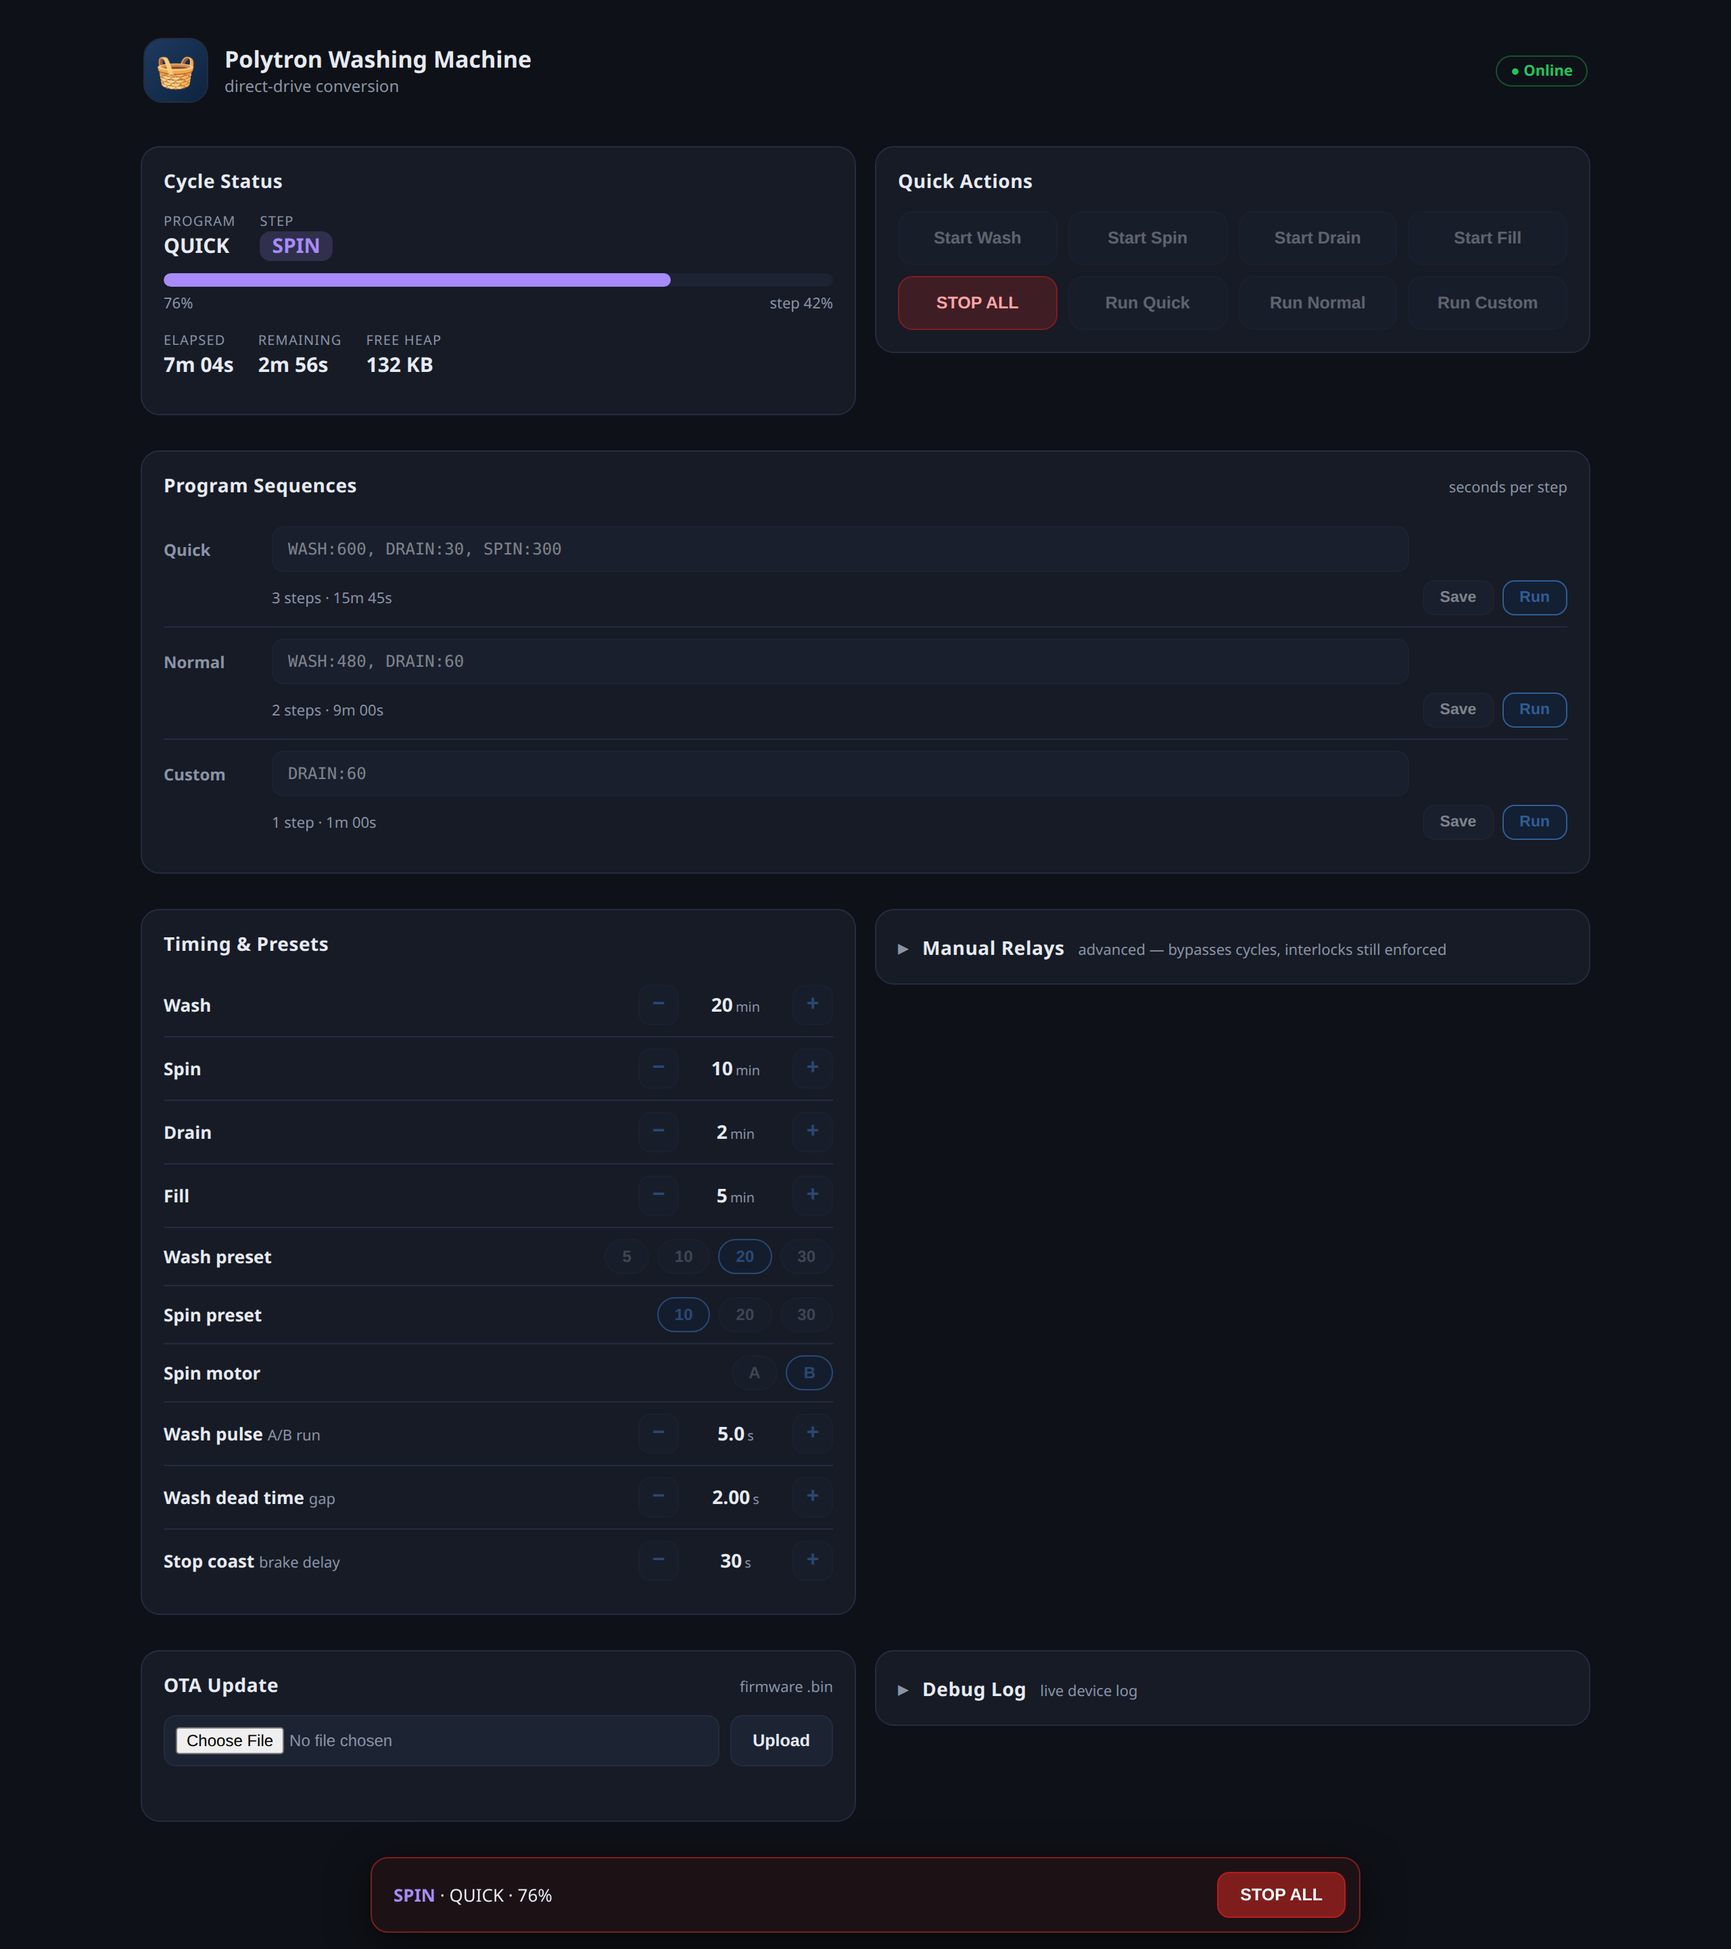
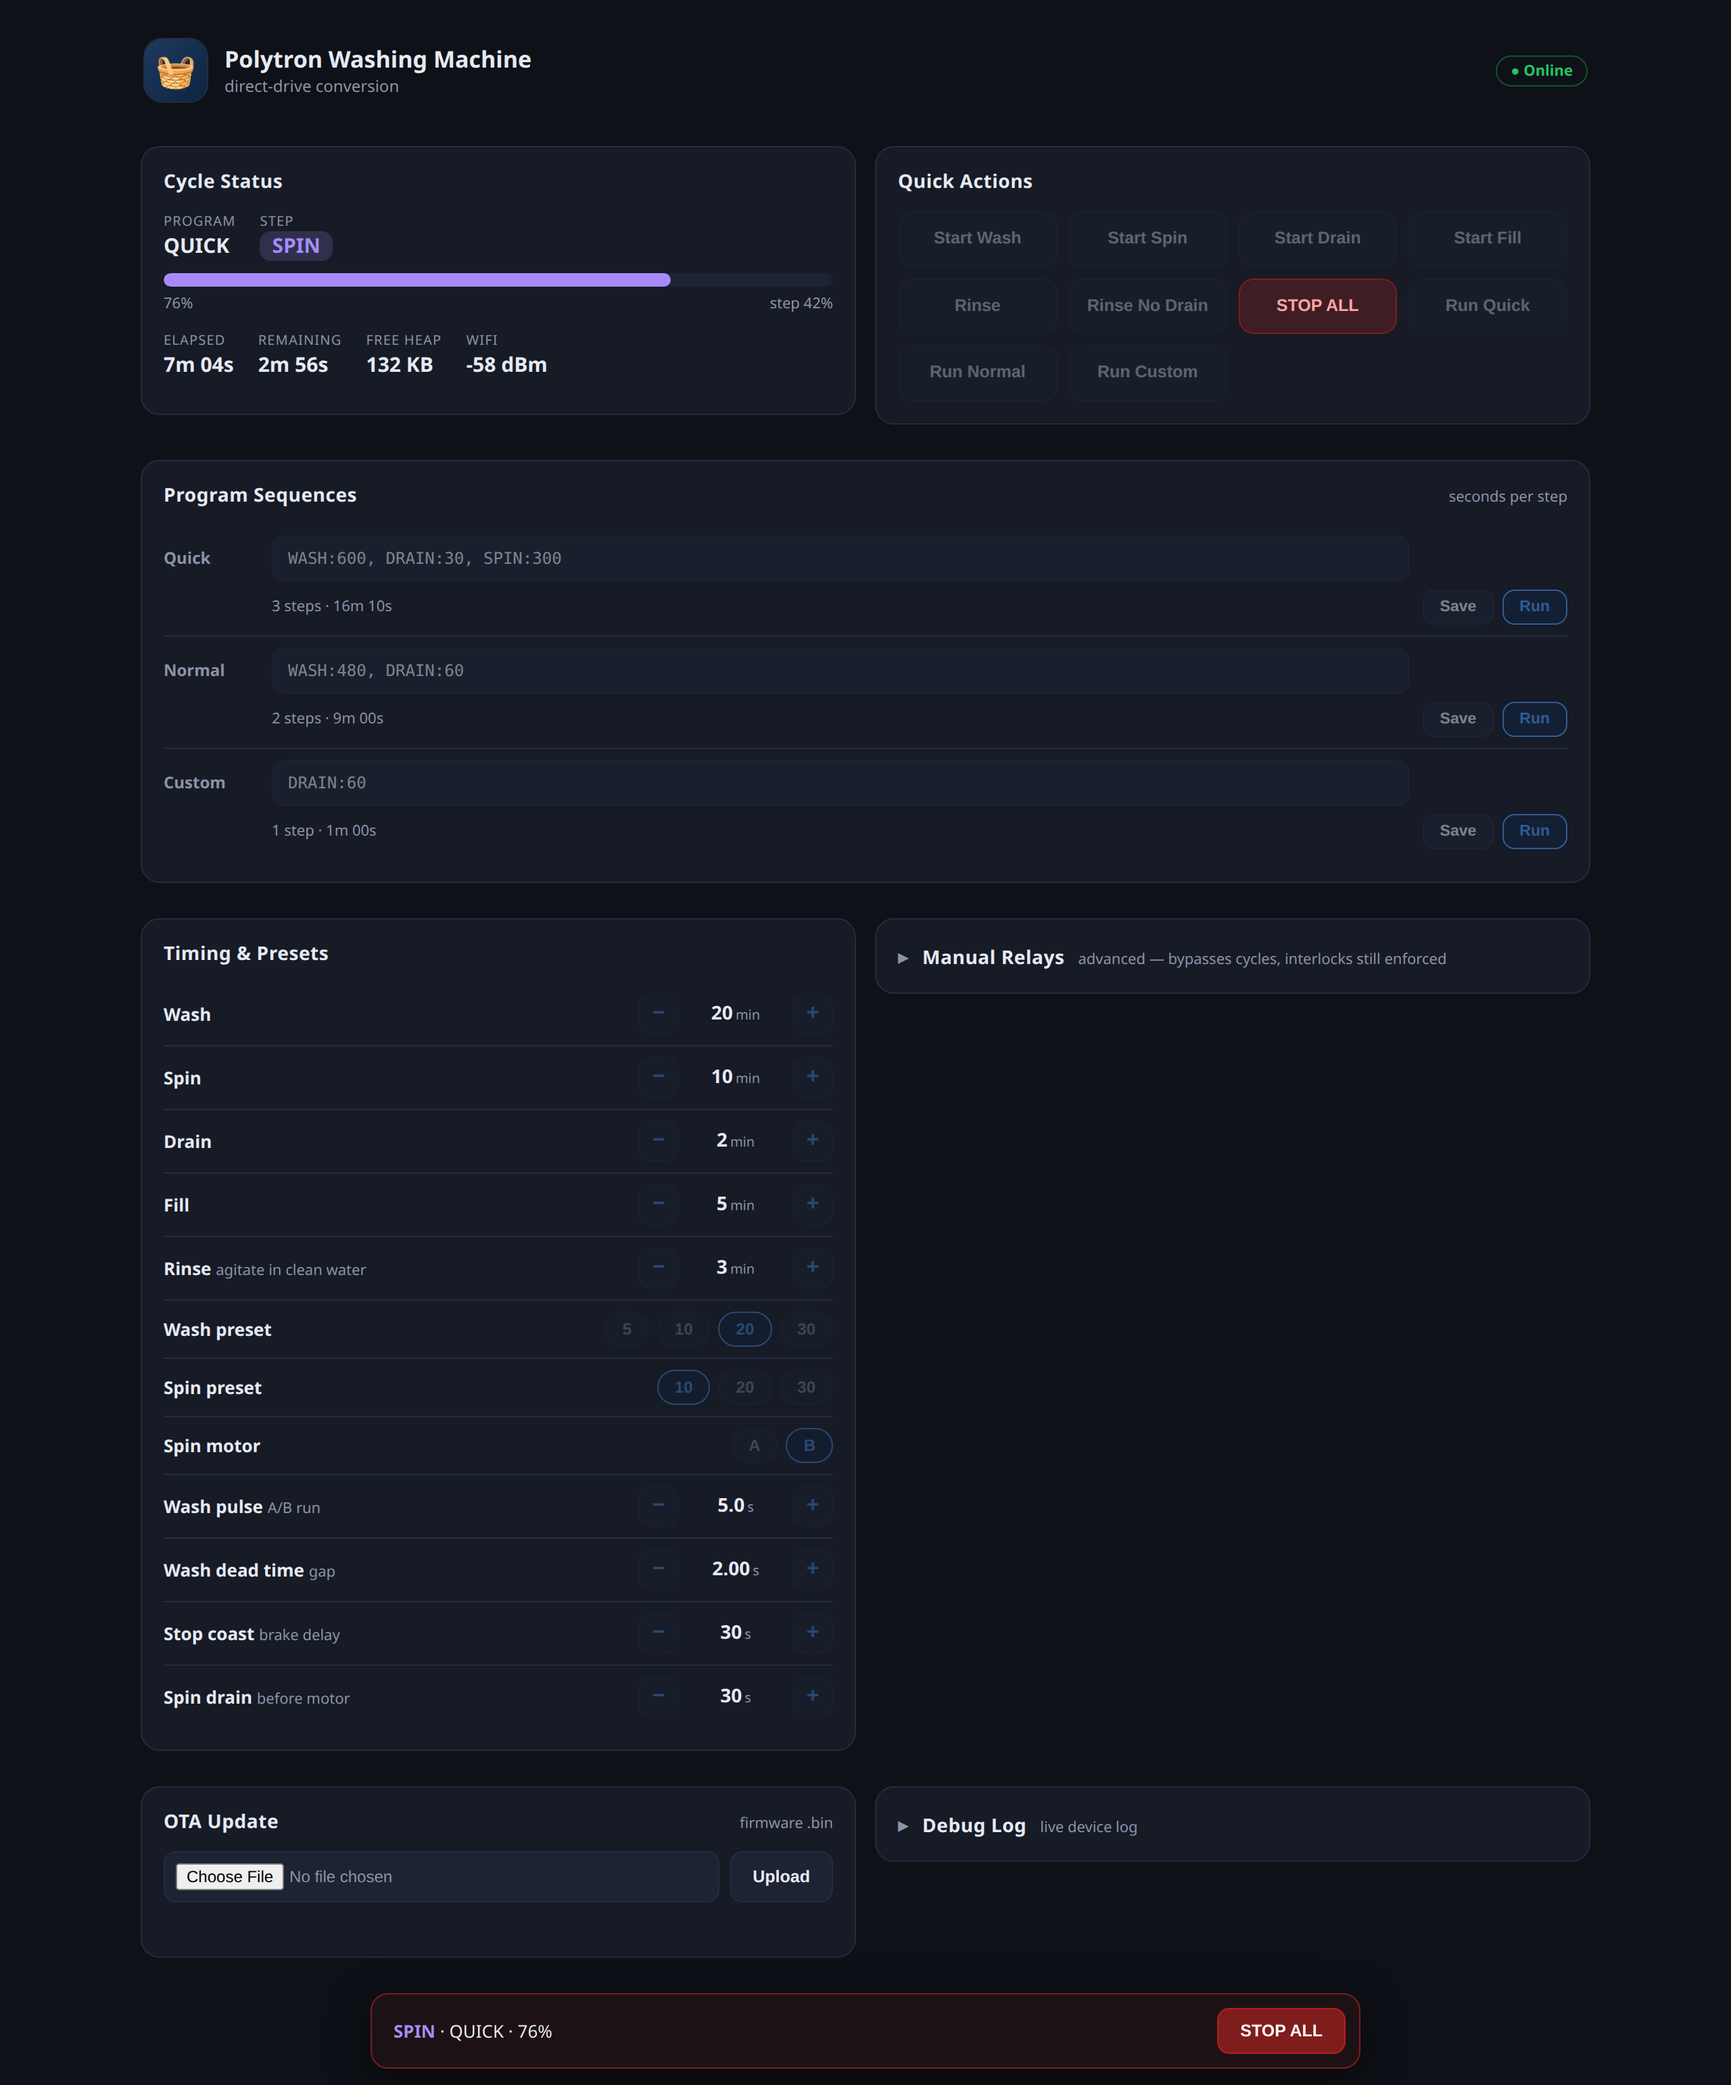
Docs: HA card UI/UX section + refreshed web UI screenshots
- new Home Assistant card section with three screenshots (home tab
  running, programs editor, mobile) and a design walkthrough: ring on
  whole-program progress, mode colors, relay chips, locked quick
  actions, live timing steppers, program editor, responsive layout
- device web UI screenshots re-shot to include Rinse / Rinse No Drain
  quick actions, Spin Drain + Rinse steppers, WiFi row; noted the
  viewport-meta injection in the responsive paragraph
- automations bullet updated: pump plug is wired (CozyLife via
  cozylife_local), no placeholder instructions left behind

HA card shots staged via a fake-hass demo page (no HA login or live
entities needed); device shots via ui/mock-server.py as before.

diff --git a/README.md b/README.md
@@ -27,24 +27,25 @@ SSE pushing state and logs live.
 ![Manual relays and live debug log](docs/screenshots/ui-relays-log.png)
 
 - **Cycle Status** — program + step chips, whole-program progress bar,
-  elapsed/remaining, free heap.
-- **Quick Actions** — start wash/spin/drain/fill or a saved program.
-  Everything except **STOP ALL** locks while a cycle runs, and a sticky
-  STOP bar follows you down the page.
+  elapsed/remaining, free heap, WiFi signal.
+- **Quick Actions** — start wash/spin/drain/fill, **Rinse** / **Rinse No
+  Drain**, or a saved program. Everything except **STOP ALL** locks while
+  a cycle runs, and a sticky STOP bar follows you down the page.
 - **Program Sequences** — the three persistent `NAME:seconds` slots with
   live validation and a computed total (SPIN steps include the
   drain-prep + coast window, read live from Spin Drain Seconds).
 - **Timing & Presets** — steppers and preset chips for every
-  runtime-tunable number.
+  runtime-tunable number (incl. Spin Drain Seconds, Rinse Minutes).
 - **Manual Relays** (collapsed) — direct relay control for testing;
   firmware interlocks still apply.
 - **OTA Update + Debug Log** (log collapsed) — flash a firmware `.bin`
   from the browser and watch the device log live.
 
 Responsive: two-column grid on desktop, single column with a 2×2
-quick-action grid on phones. No auth by default (trusted local WiFi); a
-digest-auth block is commented in the yaml if you ever want it.
-`ui/mock-server.py` fakes the device API so the UI can be exercised
+quick-action grid on phones (`www.js` injects its own viewport meta —
+ESPHome's stock shell omits one). No auth by default (trusted local
+WiFi); a digest-auth block is commented in the yaml if you ever want
+it. `ui/mock-server.py` fakes the device API so the UI can be exercised
 offline.
 
 > **Router down?** About a minute after losing the configured AP the
@@ -136,6 +137,44 @@ taps or one voice command.
 
 ## Home Assistant setup (`ha/`)
 
+### Dashboard card — `ha/www/polytron/polytron-washer-card.js`
+
+A single-file custom card (vanilla JS, shadow DOM, no build step) that
+turns the washer's entities into a phone-shaped appliance panel:
+
+| Home (running) | Program editor |
+|----------------|----------------|
+| ![HA card — home tab](docs/screenshots/ha-card-home.png) | ![HA card — programs tab](docs/screenshots/ha-card-programs.png) |
+
+![HA card on mobile](docs/screenshots/ha-card-mobile.png)
+
+The UI/UX follows the same ideas as the device web UI, adapted to the
+HA card shell:
+
+- **Progress ring** — the whole-program progress (same sensor as the
+  device UI, so both always agree), colored by mode (WASH blue / DRAIN
+  teal / SPIN purple / FILL cyan) with elapsed/remaining beside it.
+- **Live relay chips** — the four loads as compact on/off pills, so a
+  glance tells you what's energized without opening Manual Controls.
+- **Quick Actions** — one-tap starts for wash/spin/drain/fill, both
+  rinses, saved programs, and a red STOP ALL. Everything but STOP
+  locks while a cycle runs (`dis` state), mirroring the firmware's
+  one-cycle-at-a-time gate.
+- **Cycle Timing** — ± steppers and preset chips (5/10/20/30) for the
+  minute settings, plus Spin Drain Seconds and Rinse — all live number
+  entities, no re-flash to retune.
+- **Programs tab** — a step editor for the three persistent sequences
+  (add/remove steps, ± duration, save straight to the device's `text.*`
+  slots, Run from the card).
+- **Responsive** — two-column layout on wide screens, stacks to a
+  single column with a bottom tab bar on phones.
+
+Install: serve from `/config/www/polytron/` and register in
+**Settings → Dashboards → Resources** as
+`/local/polytron/polytron-washer-card.js` (type: module).
+
+### Voice, automations, YAML dashboard
+
 - `ha/scripts.yaml` — voice presets in **Bahasa Indonesia**
   (`Cuci`, `Cuci 20 Menit`, `Bilas`, `Keringkan 10 Menit`, `Buang Air`,
   `Isi Air`, `Stop Mesin Cuci`, …; English names kept as aliases).
@@ -145,17 +184,13 @@ taps or one voice command.
   *"aktifkan Keringkan"*.
 - `ha/automations.yaml` — push/notification when a cycle finishes, and a
   **fill-pump follow** automation that mirrors the inlet valve onto an
-  external pump smart-plug (works for every fill: Fill, Rinse, program
-  steps). Point it at your plug by replacing `switch.REPLACE_ME_PUMP_PLUG`;
-  a Google-Home plug usually pairs with Home Assistant via the same
-  vendor cloud (Tuya/Smart Life and friends).
-- `ha/polytron_dash.yaml` — YAML-mode dashboard: circular progress ring,
-  mode-colored state (WASH blue / DRAIN teal / SPIN purple / FILL cyan),
-  buttons locked while a cycle runs (except STOP ALL), program editor.
-- `ha/www/polytron/polytron-washer-card.js` — the custom card above;
-  serve from `/config/www/polytron/` and register in
-  **Settings → Dashboards → Resources** as
-  `/local/polytron/polytron-washer-card.js` (type: module).
+  external pump smart-plug (works for every fill: Fill, both rinses,
+  program steps). Wired to a CozyLife plug via the
+  [`cozylife_local`](https://github.com/soulripper13/cozylife_local)
+  community integration (fully local); swap the entity id in the
+  automation for any other plug.
+- `ha/polytron_dash.yaml` — YAML-mode dashboard alternative: same ring /
+  mode colors / locking rules in pure Lovelace YAML.
 
 ## Getting started
 
